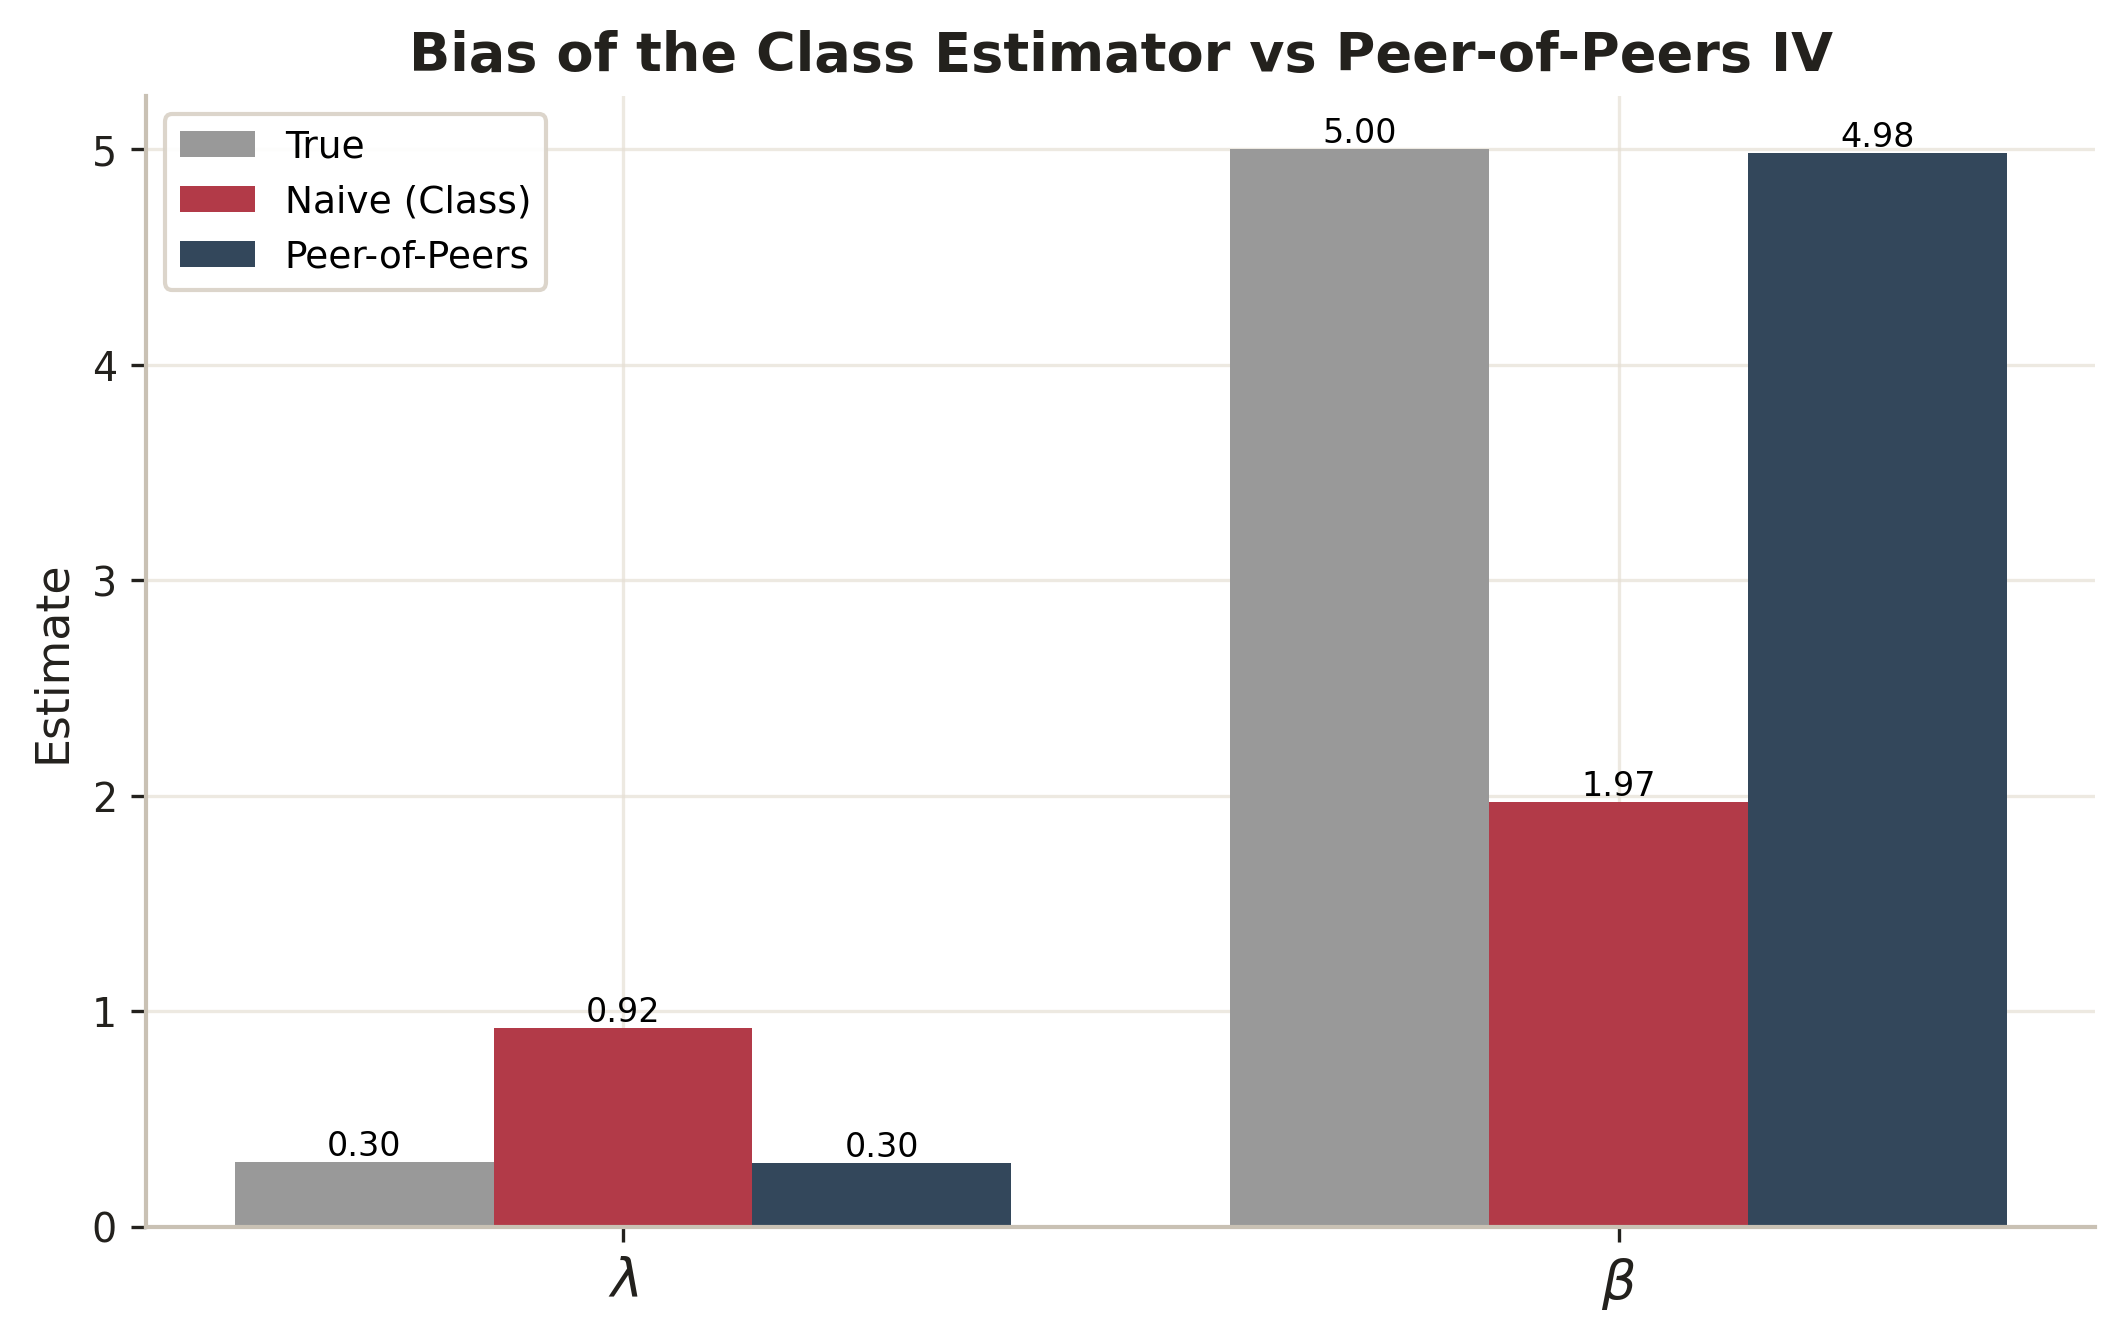
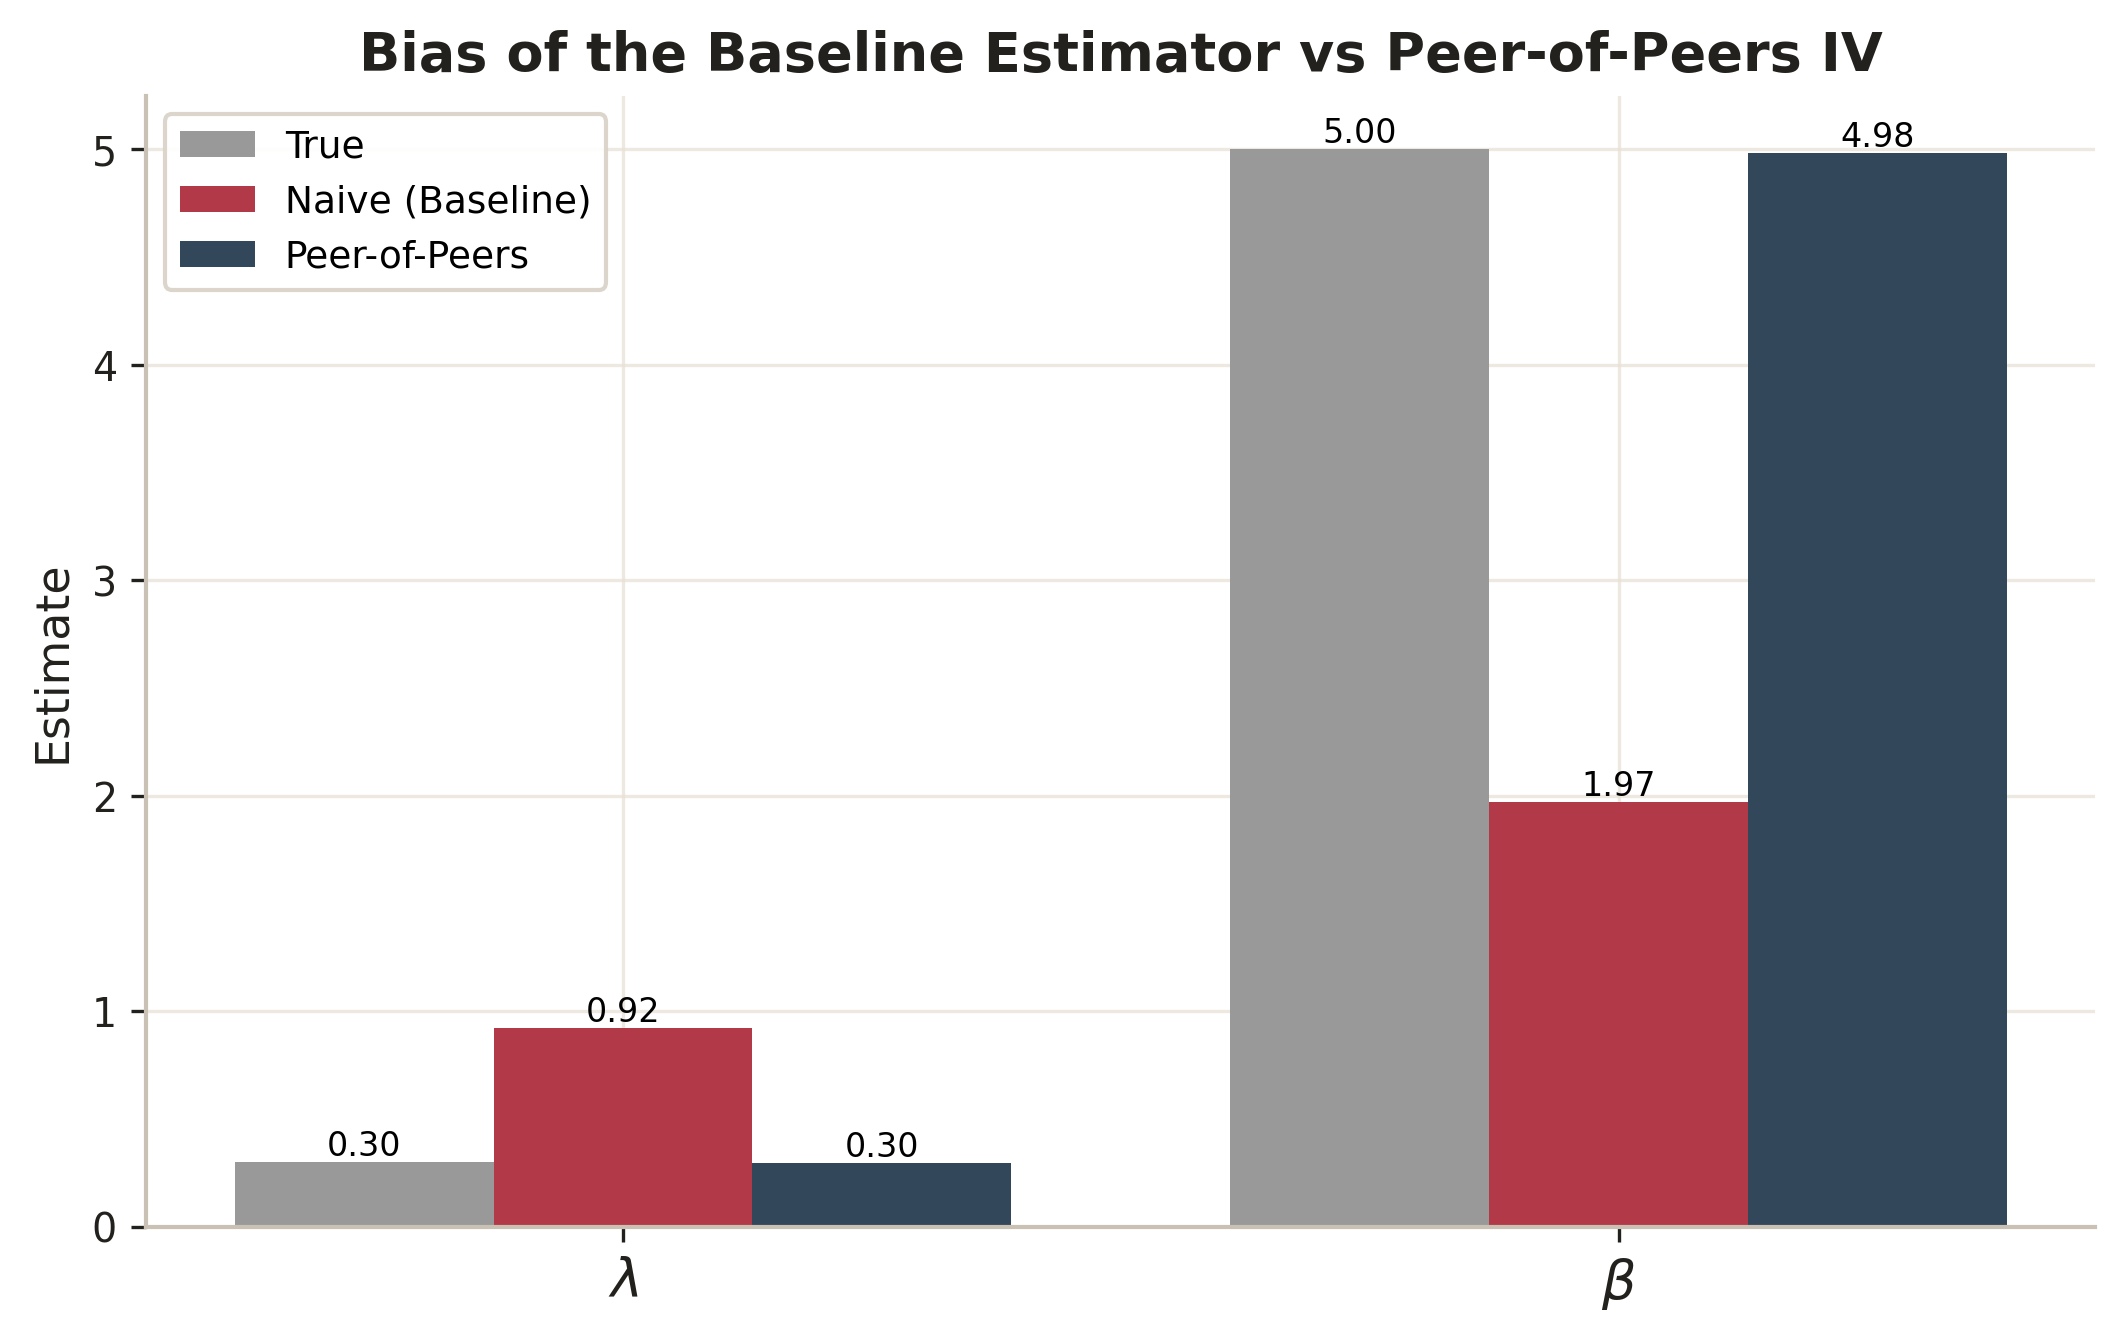
Terminologia: 'class' -> 'baseline' en la nota, el README del zip y el codigo (comentarios, docstrings, clave compartida 'naive (baseline)' y etiquetas de figura); regenerar fig3/fig4. Nota 5 paginas, 0 Overfull.

Changed region(s): [[0.1553, 0.0, 0.9007, 0.0611], [0.1864, 0.0917, 0.2795, 0.1833]]

diff --git a/Notes/PeerOfPeers_Note.tex b/Notes/PeerOfPeers_Note.tex
@@ -29,7 +29,7 @@
 \maketitle
 \vspace{-0.7cm}
 
-\noindent\textbf{Summary.} We relax the class exclusion restriction by letting \emph{direct peers' characteristics} affect a student's outcome directly. This makes direct-peer instruments invalid and the class estimator inconsistent. We identify the model instead with \emph{peers-of-peers} characteristics ($G^2x$) as excluded instruments, estimated by the same concentrated two-step GMM with the CES nonlinearity. On synthetic data with heterogeneous schools, the class estimator badly overstates the peer effect ($\widehat\lambda=0.92$ vs.\ true $0.30$, $\widehat\beta=1.97$ vs.\ $5.0$), while the peer-of-peers estimator recovers every parameter. A Hansen $J$-test, a Monte Carlo, network-robust SE and higher-order instruments corroborate the strategy.
+\noindent\textbf{Summary.} We relax the baseline exclusion restriction by letting \emph{direct peers' characteristics} affect a student's outcome directly. This makes direct-peer instruments invalid and the baseline estimator inconsistent. We identify the model instead with \emph{peers-of-peers} characteristics ($G^2x$) as excluded instruments, estimated by the same concentrated two-step GMM with the CES nonlinearity. On synthetic data with heterogeneous schools, the baseline estimator badly overstates the peer effect ($\widehat\lambda=0.92$ vs.\ true $0.30$, $\widehat\beta=1.97$ vs.\ $5.0$), while the peer-of-peers estimator recovers every parameter. A Hansen $J$-test, a Monte Carlo, network-robust SE and higher-order instruments corroborate the strategy.
 
 % ==================================================================
 \section{Model and the Exclusion Violation}
@@ -42,11 +42,11 @@ Let $y_i$ be GPA and $g_{ij}$ the (row-normalized) weight $i$ puts on peer $j$. 
 
 \textbf{Micro-Foundation.} Each student picks effort $y_i$ (the GPA) to maximize
 \[ U_i(y_i)=\big(\,x_i\T\gamma+(Gx)_i\T\phi+\varepsilon_i\big)\,y_i-\tfrac12 y_i^2+\lambda\,y_i\,\tilde y_i(\beta,y), \]
-a private return net of a quadratic effort cost, plus a complementarity with the peer norm. The private return is shifted by \emph{own and direct peers'} characteristics; the latter captures that peers' background or study environment raises $i$'s marginal return to effort. Taking peers' actions as given (Nash), the first-order condition $\partial U_i/\partial y_i=0$ yields exactly~\eqref{eq:model}. The equilibrium is the fixed point $y=X\gamma+\phi(Gx)+\lambda\,\tilde y(\beta,y)$, unique for $\lambda<1$ (a contraction), which is what the DGP solves. Setting $\phi=0$ recovers the class model, where $Gx$ is a valid excluded instrument; the twist here is $\phi\neq0$, which puts $Gx$ \emph{inside} $i$'s equation.
+a private return net of a quadratic effort cost, plus a complementarity with the peer norm. The private return is shifted by \emph{own and direct peers'} characteristics; the latter captures that peers' background or study environment raises $i$'s marginal return to effort. Taking peers' actions as given (Nash), the first-order condition $\partial U_i/\partial y_i=0$ yields exactly~\eqref{eq:model}. The equilibrium is the fixed point $y=X\gamma+\phi(Gx)+\lambda\,\tilde y(\beta,y)$, unique for $\lambda<1$ (a contraction), which is what the DGP solves. Setting $\phi=0$ recovers the baseline model, where $Gx$ is a valid excluded instrument; the twist here is $\phi\neq0$, which puts $Gx$ \emph{inside} $i$'s equation.
 
-\textbf{Item 1. Why the Class Estimator Is Inconsistent.} In class, $\tilde y_i$ was instrumented with functions of direct peers' characteristics $Gx$, valid because $Gx$ shifted peers' outcomes but was \emph{excluded} from $i$'s own equation. Once $\phi\neq0$, $Gx$ enters $i$'s equation directly. An estimator that (a) omits the term $(Gx)\T\phi$ and (b) uses $Gx$-based instruments therefore violates the exclusion restriction:
+\textbf{Item 1. Why the Baseline Estimator Is Inconsistent.} In the baseline, $\tilde y_i$ was instrumented with functions of direct peers' characteristics $Gx$, valid because $Gx$ shifted peers' outcomes but was \emph{excluded} from $i$'s own equation. Once $\phi\neq0$, $Gx$ enters $i$'s equation directly. An estimator that (a) omits the term $(Gx)\T\phi$ and (b) uses $Gx$-based instruments therefore violates the exclusion restriction:
 \begin{equation}
-\E[z_i\,\varepsilon_i^{\text{class}}]=\E\big[z_i\,(\varepsilon_i+(Gx)_i\T\phi)\big]\neq 0 ,
+\E[z_i\,\varepsilon_i^{\text{naive}}]=\E\big[z_i\,(\varepsilon_i+(Gx)_i\T\phi)\big]\neq 0 ,
 \end{equation}
 because $z_i$ is built from the same $Gx$ now sitting in the (composite) error. The direct-peer instrument is correlated with the omitted contextual term, so $\widehat\lambda$ and $\widehat\beta$ are inconsistent (Section~5 shows $\widehat\lambda$ inflated to $0.92$).
 
@@ -68,7 +68,7 @@ which holds if (i) only direct peers' characteristics enter $i$'s equation (no d
 \end{figure}
 % ==================================================================
 \section{Estimation Algorithm}
-We use the \emph{same} concentrated two-step GMM as in class, changing only the controls and the excluded instruments.
+We use the \emph{same} concentrated two-step GMM as in the baseline, changing only the controls and the excluded instruments.
 \begin{enumerate}[leftmargin=1.4em,itemsep=1pt,topsep=2pt]
 \item \textbf{Within Transform} by (school $\times$ isolation) to remove the intercept and school fixed effects.
 \item \textbf{First Stage / Instrument Construction.} Fit $\widehat y=$ OLS of $y$ on $[1,x,Gx,G^2x,\text{school dummies}]$. The key addition is $G^2x$. Build the predicted norm and its curvature instrument
@@ -82,19 +82,19 @@ Because $x$ and $Gx$ are controls in the structural equation, the \emph{excluded
 \item \textbf{Concentration + Search.} Given $\beta$, the residual is linear in $(\gamma,\phi,\lambda)$, solved analytically; we then minimize the GMM objective over the single nonlinear parameter $\beta$ (grid $+$ bounded search).
 \item \textbf{Two-Step and SE.} Identity weights first, then the optimal weight $\widehat W=\widehat\Omega^{-1}$, and school-cluster-robust standard errors (sandwich with the $G/(G-1)$ correction).
 \end{enumerate}
-The \textbf{naive (class) estimator} we compare against omits the $(Gx)\T\phi$ control and builds $\widehat S,\widehat D$ from a first stage on own covariates only $[1,x,\text{dummies}]$, so its instruments carry direct-peer ($Gx$) variation, which is invalid here.
+The \textbf{naive (baseline) estimator} we compare against omits the $(Gx)\T\phi$ control and builds $\widehat S,\widehat D$ from a first stage on own covariates only $[1,x,\text{dummies}]$, so its instruments carry direct-peer ($Gx$) variation, which is invalid here.
 
 % ==================================================================
 \section{Data}
-The synthetic environment matches the class DGP with two realistic changes. \textbf{(i) Heterogeneous Schools:} each of the 150 schools draws its own size in $[80,320]$ ($30{,}261$ students, mean size $202$, $18\%$ isolated). \textbf{(ii) Contextual Effect:} direct peers' characteristics enter the outcome with $\phi=(0,0.15,0.30)$ on (age, female, parent-college). Realized GPA is generated from the fixed point $y=p+(Gx)\phi+\lambda S(y,\beta)$ and capped to $[1,4]$ ($<0.01\%$ clipped). True values: $\gamma=(0.10,0.24,0.40)$, $\lambda=0.30$, $\beta=5$.
+The synthetic environment matches the baseline DGP with two realistic changes. \textbf{(i) Heterogeneous Schools:} each of the 150 schools draws its own size in $[80,320]$ ($30{,}261$ students, mean size $202$, $18\%$ isolated). \textbf{(ii) Contextual Effect:} direct peers' characteristics enter the outcome with $\phi=(0,0.15,0.30)$ on (age, female, parent-college). Realized GPA is generated from the fixed point $y=p+(Gx)\phi+\lambda S(y,\beta)$ and capped to $[1,4]$ ($<0.01\%$ clipped). True values: $\gamma=(0.10,0.24,0.40)$, $\lambda=0.30$, $\beta=5$.
 
 % ==================================================================
 \section{Results}
 \begin{table}[h]\centering\small
-\caption{True vs.\ naive (class, inconsistent) vs.\ peer-of-peers (correct). Cluster-robust SE for the correct estimator in brackets.}
+\caption{True vs.\ naive (baseline, inconsistent) vs.\ peer-of-peers (correct). Cluster-robust SE for the correct estimator in brackets.}
 \begin{tabular}{lrrr}
 \toprule
-Parameter & True & Naive (class) & Peer-of-peers \\
+Parameter & True & Naive (baseline) & Peer-of-peers \\
 \midrule
 $\gamma_{\text{age}}$    & 0.10 & 0.089 & 0.089\,[0.001] \\
 $\gamma_{\text{female}}$ & 0.24 & 0.214 & 0.215\,[0.003] \\
@@ -107,12 +107,12 @@ $\beta$ (CES curvature)  & 5.00 & \textbf{1.97} & \textbf{4.98}\,[0.248] \\
 \end{tabular}
 \end{table}
 
-The class estimator triples the peer effect ($0.92$ vs.\ $0.30$) and badly misses the curvature ($1.97$ vs.\ $5$), because the omitted contextual term loads onto the (invalid) direct-peer instruments. The peer-of-peers estimator recovers every parameter, including the contextual coefficients $\phi$.
+The baseline estimator triples the peer effect ($0.92$ vs.\ $0.30$) and badly misses the curvature ($1.97$ vs.\ $5$), because the omitted contextual term loads onto the (invalid) direct-peer instruments. The peer-of-peers estimator recovers every parameter, including the contextual coefficients $\phi$.
 
 \begin{figure}[h]\centering
 \includegraphics[width=0.52\linewidth]{fig4_bias_comparison.png}\\[6pt]
 \includegraphics[width=0.88\linewidth]{fig3_objective_profiles.png}
-\caption{Top: bias of the class estimator vs.\ the peer-of-peers IV for $\lambda$ and $\beta$. Bottom: GMM objective profiles: the correct estimator's minimum sits at the true $\beta=5$, the naive one at $\approx2$.}
+\caption{Top: bias of the baseline estimator vs.\ the peer-of-peers IV for $\lambda$ and $\beta$. Bottom: GMM objective profiles: the correct estimator's minimum sits at the true $\beta=5$, the naive one at $\approx2$.}
 \end{figure}
 
 % ==================================================================
@@ -153,10 +153,10 @@ The two ingredients play different roles: $G^2x$ identifies the curvature (both 
 \end{figure}
 
 \section{Code Modifications and Reproducibility}
-The extended model lives inside the class (v5) codebase; all changes are marked in-line with \texttt{[v5-ext]} comments and the extended functions carry the \texttt{ext\_} prefix.
+The extended model lives inside the baseline (v5) codebase; all changes are marked in-line with \texttt{[v5-ext]} comments and the extended functions carry the \texttt{ext\_} prefix.
 \begin{itemize}[leftmargin=1.4em,itemsep=1pt,topsep=2pt]
 \item \texttt{Code/DGP\_v5.py}: \texttt{[v5-ext]} \texttt{ext\_build\_environment} (heterogeneous schools $+$ contextual $\phi'(Gx)$); \texttt{ext\_build\_environment\_realistic} $+$ \texttt{ext\_network\_diagnostics} (homophily, triadic closure, selective isolation, latent ability).
-\item \texttt{Code/Estimation\_v5.py}: \texttt{[v5-ext]} \texttt{ext\_estimate} ($Gx$ control, first stage on $[x,Gx,G^2x]$, instruments $Z=(x,Gx,\widehat S,\widehat D)$; mode \texttt{naive} is the class estimator), \texttt{ext\_first\_stage\_F}, \texttt{ext\_sensitivity\_table}, \texttt{ext\_overid\_j\_test}, \texttt{ext\_monte\_carlo}, \texttt{ext\_network\_robust\_se}, \texttt{ext\_higher\_order\_relevance}; the shared CES kernel is \texttt{Code/core.py}.
+\item \texttt{Code/Estimation\_v5.py}: \texttt{[v5-ext]} \texttt{ext\_estimate} ($Gx$ control, first stage on $[x,Gx,G^2x]$, instruments $Z=(x,Gx,\widehat S,\widehat D)$; mode \texttt{naive} is the baseline estimator), \texttt{ext\_first\_stage\_F}, \texttt{ext\_sensitivity\_table}, \texttt{ext\_overid\_j\_test}, \texttt{ext\_monte\_carlo}, \texttt{ext\_network\_robust\_se}, \texttt{ext\_higher\_order\_relevance}; the shared CES kernel is \texttt{Code/core.py}.
 \item \texttt{Code/Figures\_v5.py} (\texttt{ext\_fig\_*}) and \texttt{Code/run\_all\_v5.py} / \texttt{run\_extension.py} / \texttt{run\_realistic.py}: figures and one-command drivers.
 \end{itemize}
 \textbf{Reproduce} from the repository with \texttt{cd Code \&\& python run\_extension.py} (extended model only) or \texttt{python run\_all\_v5.py} (baseline $+$ extended $+$ realistic stress test): it runs the estimators, prints and saves the comparison table plus every extension above to \texttt{Outputs/v5/}, and writes the figures to \texttt{Figures/v5/}.

diff --git a/Code/Estimation_v5.py b/Code/Estimation_v5.py
@@ -1694,7 +1694,7 @@ def format_instrument_comparison(table, true_beta=10.0):  # [v5]
 # ============================================================
 # [v5-ext] EXTENDED-MODEL ESTIMATOR: contextual control (Gx) + peers-of-peers
 # (G^2x) IV, with modes correct/naive/control_only/instr_only, weak-IV F and a
-# 2x2 sensitivity. Public API prefixed ext_ ; the class estimator is mode "naive".
+# 2x2 sensitivity. Public API prefixed ext_ ; the baseline estimator is mode "naive".
 # ============================================================
 EXT_OUTPUT_DIR = PROJECT_ROOT / "Outputs" / "v5"
 
@@ -1739,7 +1739,7 @@ def ext_prepare_context(df, G_list):
     ones = np.ones((len(df), 1))
     # [v5-ext] correct first stage includes G^2x (the excluded peer-of-peers instrument)
     yhat_correct = _first_stage(y, np.column_stack([ones, X, Gx, G2x, dummies]))
-    # [NAIVE] class first stage: own covariates only -> instruments carry direct-peer (Gx) variation
+    # [NAIVE] baseline first stage: own covariates only -> instruments carry direct-peer (Gx) variation
     yhat_naive = _first_stage(y, np.column_stack([ones, X, dummies]))
     for nm, yh in (("correct", yhat_correct), ("naive", yhat_naive)):
         if np.any(yh <= 0):
@@ -1840,7 +1840,7 @@ def _eta_to_params(eta, mode, k):
 
 
 def ext_estimate(df, G_list, mode="correct"):
-    """Concentrated two-step GMM. mode='correct' (correct) or 'naive' (class)."""
+    """Concentrated two-step GMM. mode='correct' (correct) or 'naive' (baseline)."""
     ctx = ext_prepare_context(df, G_list)
     k = ctx["X"].shape[1]
     WI, WN = _identity_W(ctx, mode)
@@ -1917,14 +1917,14 @@ def _cluster_se(beta, ctx, mode, eta, WI, WN):
 
 
 def ext_compare_estimators(df, G_list, true_parameters=None):
-    """Run NAIVE (class) and CORRECT (extended model) and tabulate against the truth."""
+    """Run NAIVE (baseline) and CORRECT (extended model) and tabulate against the truth."""
     est_correct, se_correct = ext_estimate(df, G_list, mode="correct")
     est_nv, se_nv = ext_estimate(df, G_list, mode="naive")
     rowsel = ["gamma_age","gamma_female","gamma_f_col","phi_age","phi_female","phi_f_col","lambda","beta"]
     cols = {}
     if true_parameters is not None:
         cols["true"] = pd.Series({k: true_parameters.get(k, np.nan) for k in rowsel})
-    cols["naive (class)"] = pd.Series({k: est_nv.get(k, np.nan) for k in rowsel})
+    cols["naive (baseline)"] = pd.Series({k: est_nv.get(k, np.nan) for k in rowsel})
     cols["correct"] = pd.Series({k: est_correct.get(k, np.nan) for k in rowsel})
     table = pd.concat(cols, axis=1).reindex(rowsel)
     return table, (est_correct, se_correct), (est_nv, se_nv)

diff --git a/Code/Figures_v5.py b/Code/Figures_v5.py
@@ -574,7 +574,7 @@ def ext_fig_first_stage(ctx):
 def ext_fig_objective_profiles(ctx):
     betas = np.linspace(1.5, 12, 40)
     fig, ax = plt.subplots(1, 2, figsize=(11, 4.4))
-    for a, mode, ttl in ((ax[0], "correct", "Peers-of-Peers (Correct)"), (ax[1], "naive", "Naive (Class)")):
+    for a, mode, ttl in ((ax[0], "correct", "Peers-of-Peers (Correct)"), (ax[1], "naive", "Naive (Baseline)")):
         WI, WN = E._identity_W(ctx, mode)
         Q = [E._objective(bb, ctx, mode, WI, WN) for bb in betas]
         bmin = betas[int(np.argmin(Q))]
@@ -592,13 +592,13 @@ def ext_fig_bias(table):
     x = np.arange(len(params)); w = 0.26
     fig, a = plt.subplots(figsize=(7.2, 4.6))
     a.bar(x - w, table.loc[params, "true"], w, color=GRY, label="True")
-    a.bar(x, table.loc[params, "naive (class)"], w, color=RED, label="Naive (Class)")
+    a.bar(x, table.loc[params, "naive (baseline)"], w, color=RED, label="Naive (Baseline)")
     a.bar(x + w, table.loc[params, "correct"], w, color=BLU, label="Peer-of-Peers")
     a.set_xticks(x); a.set_xticklabels(lbl, fontsize=13); a.legend()
-    a.set_title("Bias of the Class Estimator vs Peer-of-Peers IV")
+    a.set_title("Bias of the Baseline Estimator vs Peer-of-Peers IV")
     a.set_ylabel("Estimate")
     for i, p in enumerate(params):
-        for off, col in ((-w, "true"), (0, "naive (class)"), (w, "correct")):
+        for off, col in ((-w, "true"), (0, "naive (baseline)"), (w, "correct")):
             v = table.loc[p, col]; a.text(i+off, v+0.03, f"{v:.2f}", ha="center", fontsize=8)
     fig.tight_layout(); fig.savefig(FIG_EXT / "fig4_bias_comparison.png"); plt.close(fig)
 

diff --git a/Code/run_all_v5.py b/Code/run_all_v5.py
@@ -3,7 +3,7 @@ Unified runner for the complete v5 project -- ONE command runs EVERYTHING:
 
     python run_all_v5.py
 
-PART A -- BASELINE (Boucher, Rendall, Ushchev & Zenou 2024): the class model
+PART A -- BASELINE (Boucher, Rendall, Ushchev & Zenou 2024): the baseline model
           y = delta*p + lambda*S(beta), estimated by two-step GMM + CUE, with
           Anderson-Rubin, LIM, Hansen J and an instrument-set comparison.
           Direct-peer / intransitivity instruments are valid (no contextual effect).
@@ -14,7 +14,7 @@ PART B -- EXTENDED MODEL (contextual peer effects): adds a contextual term
           test and a 2x2 control/instrument sensitivity. All functions live in the
           v5 modules under the ext_ prefix.
 
-Bridge: PART B's "naive" mode IS PART A's class estimator -- the one that becomes
+Bridge: PART B's "naive" mode IS PART A's baseline estimator -- the one that becomes
 inconsistent once the contextual effect is present. Both parts share core.py.
 """
 
@@ -24,7 +24,7 @@ def _banner(t):
 
 
 def run_baseline():
-    _banner("PART A  --  BASELINE (Boucher et al. 2024): the class model")
+    _banner("PART A  --  BASELINE (Boucher et al. 2024): the baseline model")
     from DGP_v5 import (DATA_DIR, build_environment, save_environment,
                         summarize_environment)
     from Estimation_v5 import (OUTPUT_DIR, comparison_table, estimate_model_cue,
@@ -59,7 +59,7 @@ def run_extended():
     table.to_csv(E.EXT_OUTPUT_DIR / "estimator_comparison.csv")
     with (E.EXT_OUTPUT_DIR / "estimates.json").open("w") as f:
         json.dump({"correct": ec, "correct_se": sc, "naive": en, "naive_se": sn}, f, indent=2)
-    print("True vs NAIVE (class, inconsistent) vs CORRECT (extended model)\n")
+    print("True vs NAIVE (baseline, inconsistent) vs CORRECT (extended model)\n")
     print(table.round(4).to_string())
     Fstat = E.ext_first_stage_F(df, G_list, beta=ec["beta"])
     stab = E.ext_sensitivity_table(df, G_list, true)